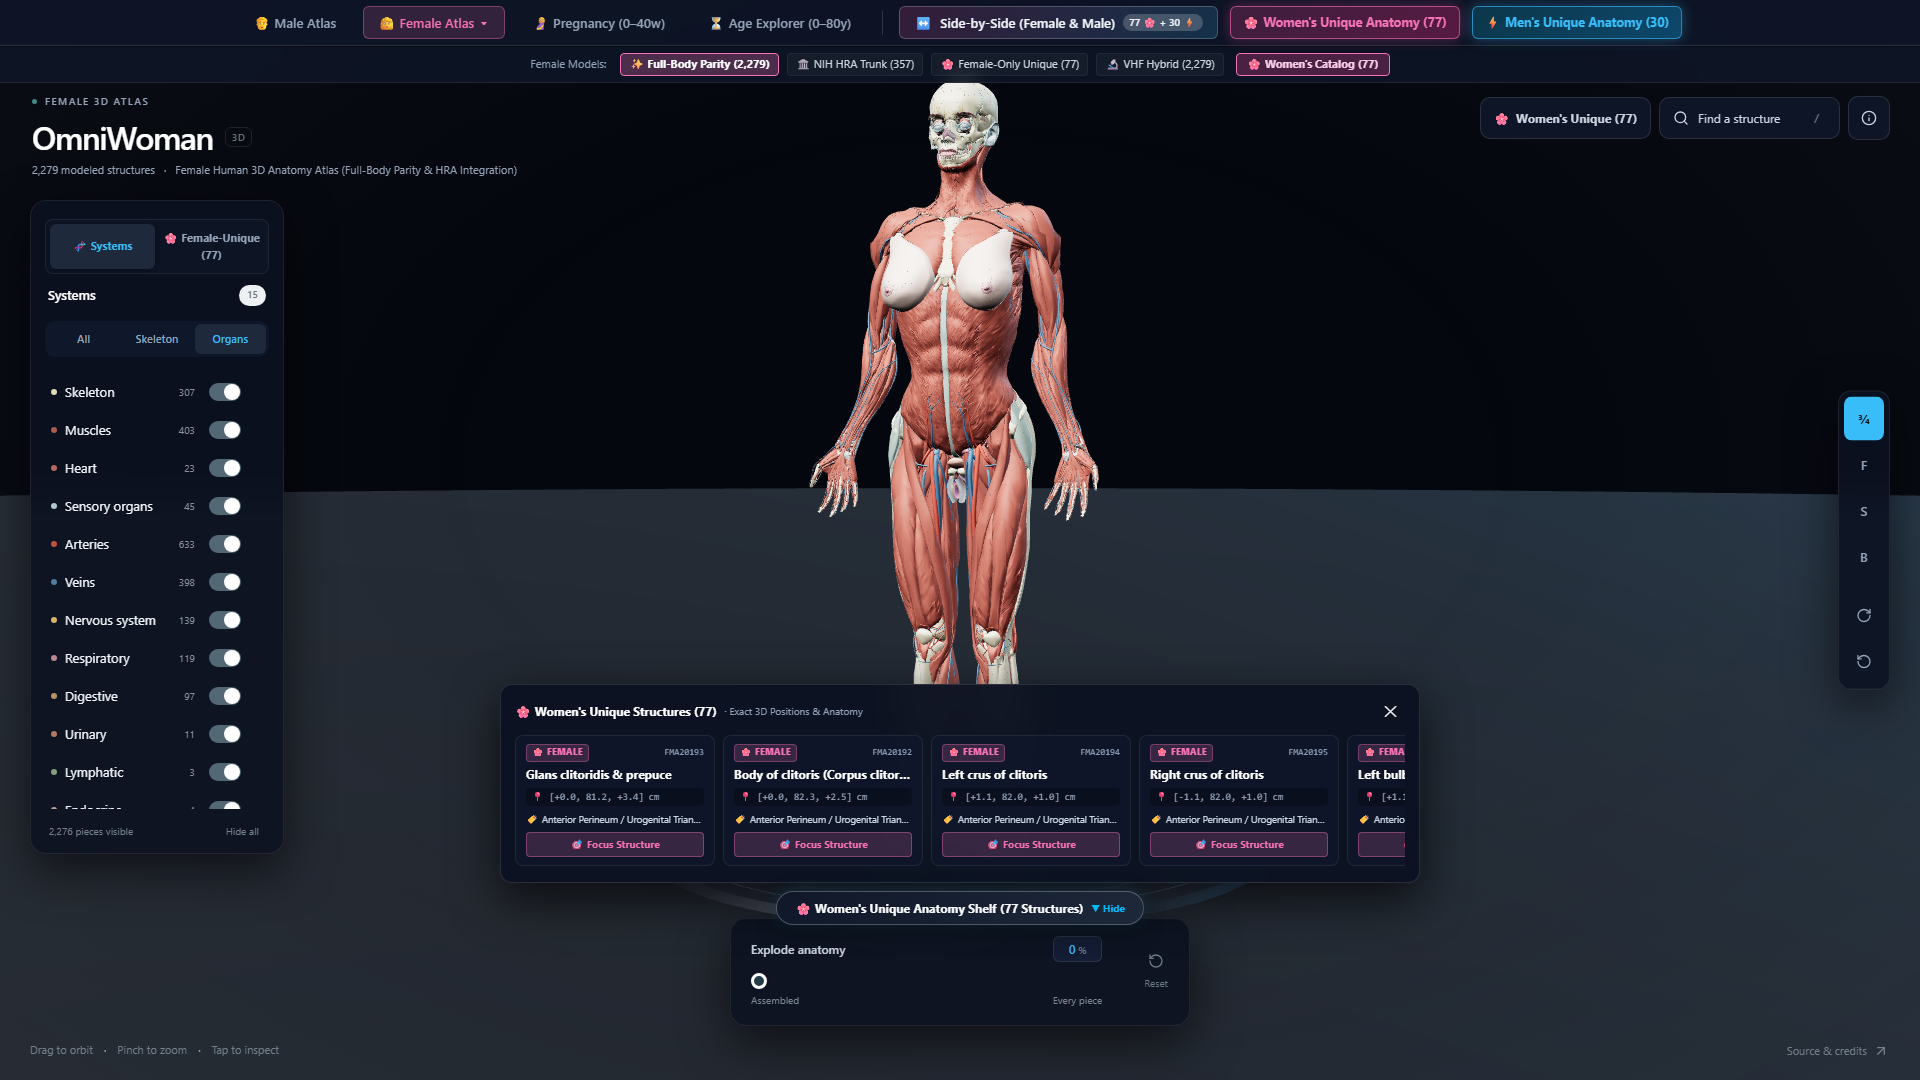
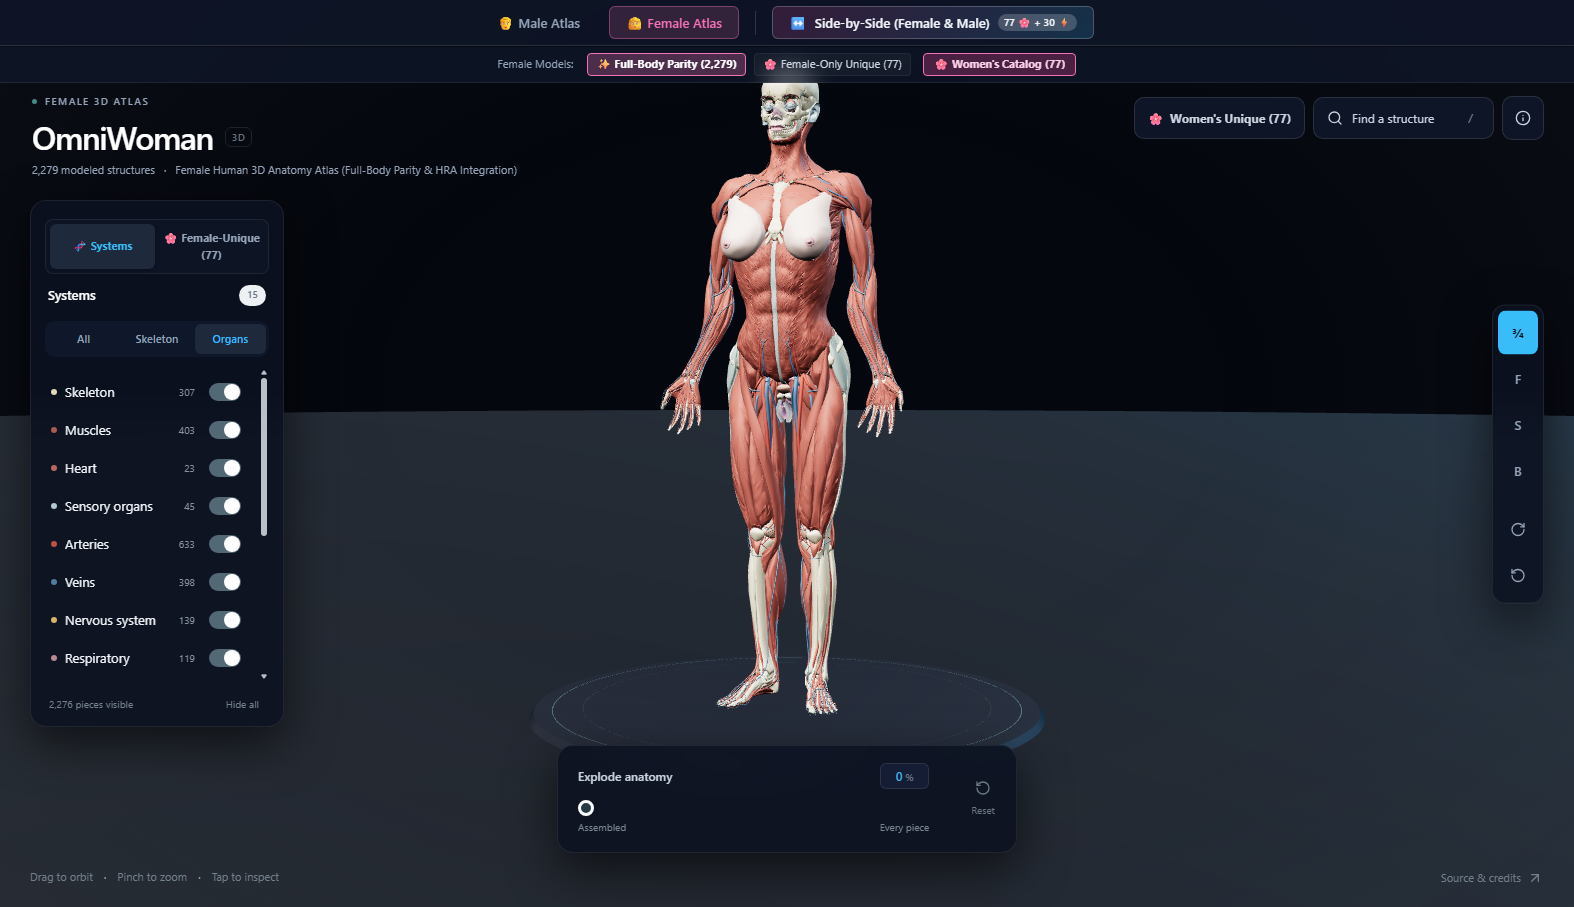
docs: update README with streamlined 3-mode atlas, 10% ghosting and fresh UI preview
- Replace old UI preview image with high-resolution capture of the clean 3-mode workstation
- Document the 3 core modes: Male Atlas (OmniMan), Female Atlas (OmniWoman), and Side-by-Side (Female & Male)
- Detail the 10% X-ray visual ghosting focus effect and smooth 0.8s Bezier camera flight transitions
- Update feature documentation, system controls, quick-start guide, and navigation reference
- Remove legacy references to deprecated pregnancy and aging modes

diff --git a/README.md b/README.md
@@ -1,64 +1,89 @@
-# OmniWoman 3D: Female Human Anatomy Atlas & Dual-Gender Explorer
-**Interactive 3D Female Anatomical Digital Twin & Side-by-Side Comparative Explorer**
+# OmniHuman 3D: Clinical Human Anatomy Atlas & Dual-Sex Comparative Explorer
+**Interactive WebGL 3D Human Anatomical Digital Twin with Cinematic Focus & Comparative Analysis**
 
-[![Dataset](https://img.shields.io/badge/NIH%20HRA-Female%20Atlas%20Parity-ec4899?style=for-the-badge)](https://humanatlas.io/)
+[![Dataset](https://img.shields.io/badge/NIH%20HRA-Human%20Atlas%20Parity-0284c7?style=for-the-badge)](https://humanatlas.io/)
 [![Status](https://img.shields.io/badge/Status-Production%20Ready-00e676?style=for-the-badge)]()
-[![Platform](https://img.shields.io/badge/Platform-React%20%7C%20Three.js%20%7C%20Vite%20%7C%20Tailwind-8b5cf6?style=for-the-badge)]()
+[![Platform](https://img.shields.io/badge/Platform-React%2019%20%7C%20Three.js%20%7C%20Vite%20%7C%20Tailwind-8b5cf6?style=for-the-badge)]()
+[![License](https://img.shields.io/badge/License-MIT-blue?style=for-the-badge)](./LICENSE)
 
 ---
 
 ## 📸 Workstation Interface
 
-![OmniWoman 3D Interface](./ui-preview.png)
+![OmniHuman 3D Interface](./ui-preview.png)
 
 ---
 
 ## 🌟 Overview & Capabilities
 
-**OmniWoman 3D** is an advanced interactive 3D female human anatomical digital twin built with React, Three.js, Vite, and Tailwind CSS. It features full anatomical parity with authentic reference datasets, integrated specialized female pelvic and reproductive organs from the NIH Human Reference Atlas (HRA), dynamic obstetrical pregnancy simulation, lifespan osteoporosis progression, and side-by-side dimorphic analysis.
+**OmniHuman 3D** is a high-performance clinical-grade 3D anatomical explorer and digital twin workstation built with React 19, Three.js, Vite, and Tailwind CSS. It delivers an intuitive, streamlined interface featuring three dedicated exploration modes, subtle 10% X-ray visual ghosting focus, and comprehensive full-body anatomy datasets.
 
-### Core Modules:
-1. **Full-Body Female Anatomy (OmniWoman 3D)**: 2,279 individually selectable anatomical structures across 15 complete body systems (Muscles, Skeleton, Cardiovascular, Nervous, Reproductive, Urinary, Digestive, Respiratory, Endocrine, Lymphatic, etc.).
-2. **NIH HRA Specialized Female Organ Suite**: High-precision 3D clinical models of female-specific structures:
-   - Uterus, left & right fallopian tubes, left & right ovaries
-   - Broad & round ligaments, vaginal canal, cervix
-   - Female urinary bladder and pelvic floor architecture
-   - Mammary glands, lobules, lactiferous ducts, and areolar complex
-   - Comprehensive external vulvar anatomy (clitoral complex, crura, bulbs of vestibule, labia majora & minora)
-3. **Side-by-Side Comparative Frame (77 Female vs 30 Male)**:
-   - Synchronized dual-gender anatomical frame comparing dimorphic structures in real time
-   - Direct homologous organ mapping (clitoris ↔ penis, labia majora ↔ scrotum, ovaries ↔ testes)
-   - Interactive parts catalog modal with 1-click 3D focus
-4. **Obstetrical Pregnancy Simulation (0–40 Weeks)**:
-   - Parametric gestational progression slider with 3D cephalic fetus visualization
-   - Progressive uterine expansion, organ displacement, and maternal physiological changes
-5. **Lifespan Age Explorer (0–80 Years)**:
-   - Bone mineral density visualization (T-scores, osteopenia, osteoporosis)
-   - Age-related kyphosis and soft tissue remodeling
-6. **Exploded Anatomy & Multi-System Isolation**:
-   - 0–100% collision-free exploded view packing
-   - Instant spotlight search (`/`) across all named concepts
+### 🏛 The Three Core Atlas Modes
+
+1. **👨 Male Atlas (`OmniMan`)**
+   - **2,234 modeled anatomical structures** across 15 complete physiological systems (Skeleton, Muscles, Arteries, Veins, Nervous, Heart, Digestive, Respiratory, Urinary, Reproductive, Lymphatic, Endocrine, Sensory Organs, Integumentary, and Ligaments).
+   - Contextual toggle for **30 specialized male-unique structures** (Android Pelvis, Erectile Penile Bodies, Testicular & Spermatic Conduits, Prostate Gland, and Gonadal Vasculature).
+
+2. **👩 Female Atlas (`OmniWoman`)**
+   - **Full-Body Parity (2,279 structures)** providing comprehensive anatomical coverage matched to high-precision reference datasets.
+   - Dedicated **Female-Only Unique Catalog (77 verified structures)**: Gynecoid Pelvis, Clitoral-Vestibular Complex, Uterovaginal Architecture, Multilayer Mammary Glands & Ducts, and Cranial Aesthetics.
+
+3. **↔ Side-by-Side Comparative Frame (Female & Male)**
+   - Displays dimorphic structures side-by-side in the same 3D viewport (77 Female Organs on the left vs 30 Male Organs on the right).
+   - Real-time homologous organ mapping (Clitoris ↔ Penis, Labia Majora ↔ Scrotum, Ovaries ↔ Testes).
+   - Interactive comparative parts catalog with one-click 3D solo focus.
+
+---
+
+## 🔍 Cinematic Focus & 10% Visual Ghosting
+
+- **Target Radiance**: Clicking any 3D organ or selecting it from search isolates the targeted structure at **100% solid opacity**, vibrantly illuminated with enhanced shader lighting.
+- **10% X-Ray Ghosting**: All surrounding organs, muscles, and bones transition fluidly to **10% opacity** (`0.10`) with a cool desaturated X-ray glass tint, preserving anatomical spatial context without visual obstruction.
+- **Smooth 0.8s Camera Flights**: Smooth Bezier curve flight path glides and orbits to frame the target structure with zero jarring snapping or teleportation.
+- **Universal Restoration**:
+  - Floating **`↺ Back to whole body`** pill button smoothly animates the camera back out and restores all body parts to 100% solid opacity.
+  - Clicking empty background space in the 3D viewport triggers automatic whole-body restoration.
+
+---
+
+## ⚙ Additional Features
+
+- **Instant Spotlight Search (`/`)**: Universal modal search across all modeled structures with instant filtering by system and FMA identifiers.
+- **Exploded Anatomy (0–100%)**: Smoothly disassemble anatomical layers along physiological vectors for deep internal inspection.
+- **Clinical Diagnostic Sheet**: Deep-dive metadata inspection sheet providing FMA IDs, vertex counts, facet counts, and anatomical descriptions.
+- **15 Discrete System Toggles**: Independent layer switches and bulk presets (Skeleton, Organs, All).
 
 ---
 
 ## ⚡ Quick Start
 
 ### Prerequisites
-- Node.js 18+ or Node.js 20+
+- **Node.js**: `v20.x` or `v22.x`
+- **npm** or **bun**
 
-### Installation & Run
+### Installation & Development
 ```bash
+# Clone the repository
+git clone https://github.com/NishidhJasani1605/OmniHuman-3D.git
+cd OmniHuman-3D/OmniHuman-3D-main
+
 # Install dependencies
 npm install
 
-# Start development server
+# Start local development server
 npm run dev
 ```
-Then navigate to `http://localhost:3016`.
+Open `http://localhost:3016` in your browser.
 
 ### Production Build
 ```bash
+# Typecheck code
+npm run check
+
+# Compile production bundle
 npm run build
+
+# Preview production build locally
 npm run preview
 ```
 
@@ -66,20 +91,27 @@ npm run preview
 
 ## ⌨ Controls & Navigation
 
-| Action | Control |
-| :--- | :--- |
-| **Orbit** | Left Click + Drag |
-| **Pan** | Right Click + Drag / Two-finger drag |
-| **Zoom** | Mouse Wheel / Pinch gesture |
-| **Select Part** | Click any 3D organ, muscle, or bone |
-| **Spotlight Search** | Press `/` or click "Find a structure" |
-| **Toggle Systems** | Use left sidebar switches |
-| **Explode Mode** | Drag bottom slider (0% to 100%) |
+| Action | Control | Description |
+| :--- | :--- | :--- |
+| **Orbit** | Left Click + Drag | Rotate around the 3D anatomical subject |
+| **Pan** | Right Click + Drag / Two-Finger Drag | Translate viewport horizontally or vertically |
+| **Zoom** | Mouse Wheel / Pinch Gesture | Move camera toward or away from target |
+| **Focus & Ghost** | Left Click on any part | Focus target at 100% opacity; drop surroundings to 10% |
+| **Restore Whole Body** | Click `↺ Back to whole body` / Tap empty space | Smooth return flight restoring all parts to 100% solid opacity |
+| **Spotlight Search** | Press `/` or click `Find a structure` | Open search dialog across all named anatomical concepts |
+| **Systems Panel** | Left Sidebar | Toggle visibility of any of the 15 physiological systems |
+| **Explode View** | Bottom Slider (0% – 100%) | Separate organs and structures outward |
 
 ---
 
 ## 📜 Attributions & Data Sources
 
-- **NIH Human Reference Atlas (HRA)**: High-resolution anatomical models of human female organ systems.
+- **NIH Human Reference Atlas (HRA)**: High-resolution anatomical models of human female and male organ systems.
 - **BodyParts3D**: Database Center for Life Science (DBCLS), Japan. CC BY-SA 2.1 JP.
 - **FMA (Foundational Model of Anatomy)**: Structural Informatics Group, University of Washington.
+
+---
+
+## 📄 License
+
+This project is licensed under the [MIT License](./LICENSE).
